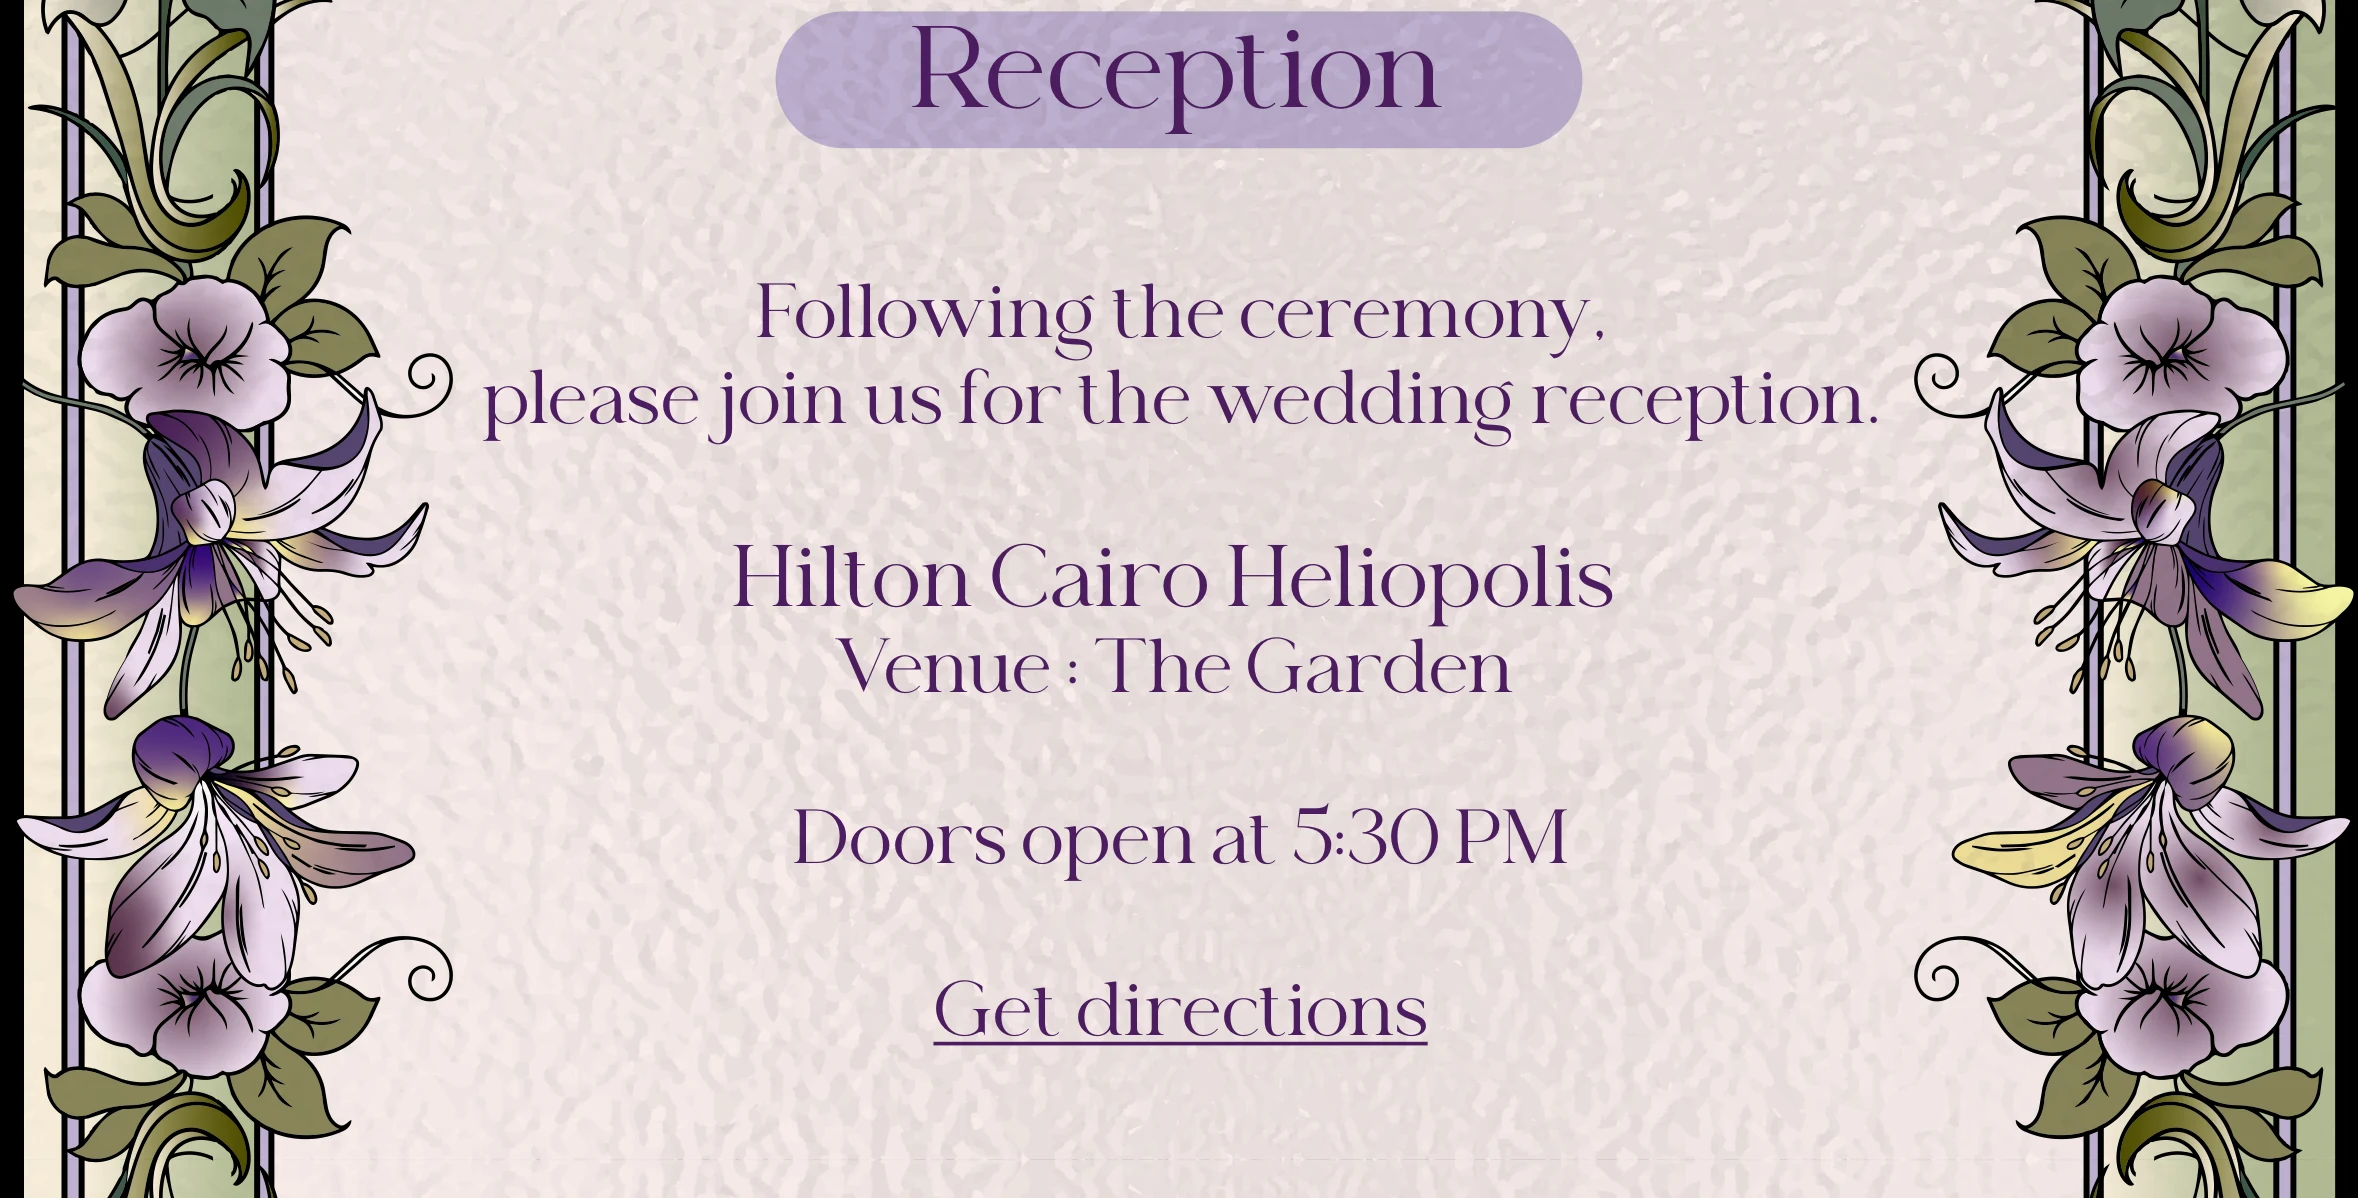
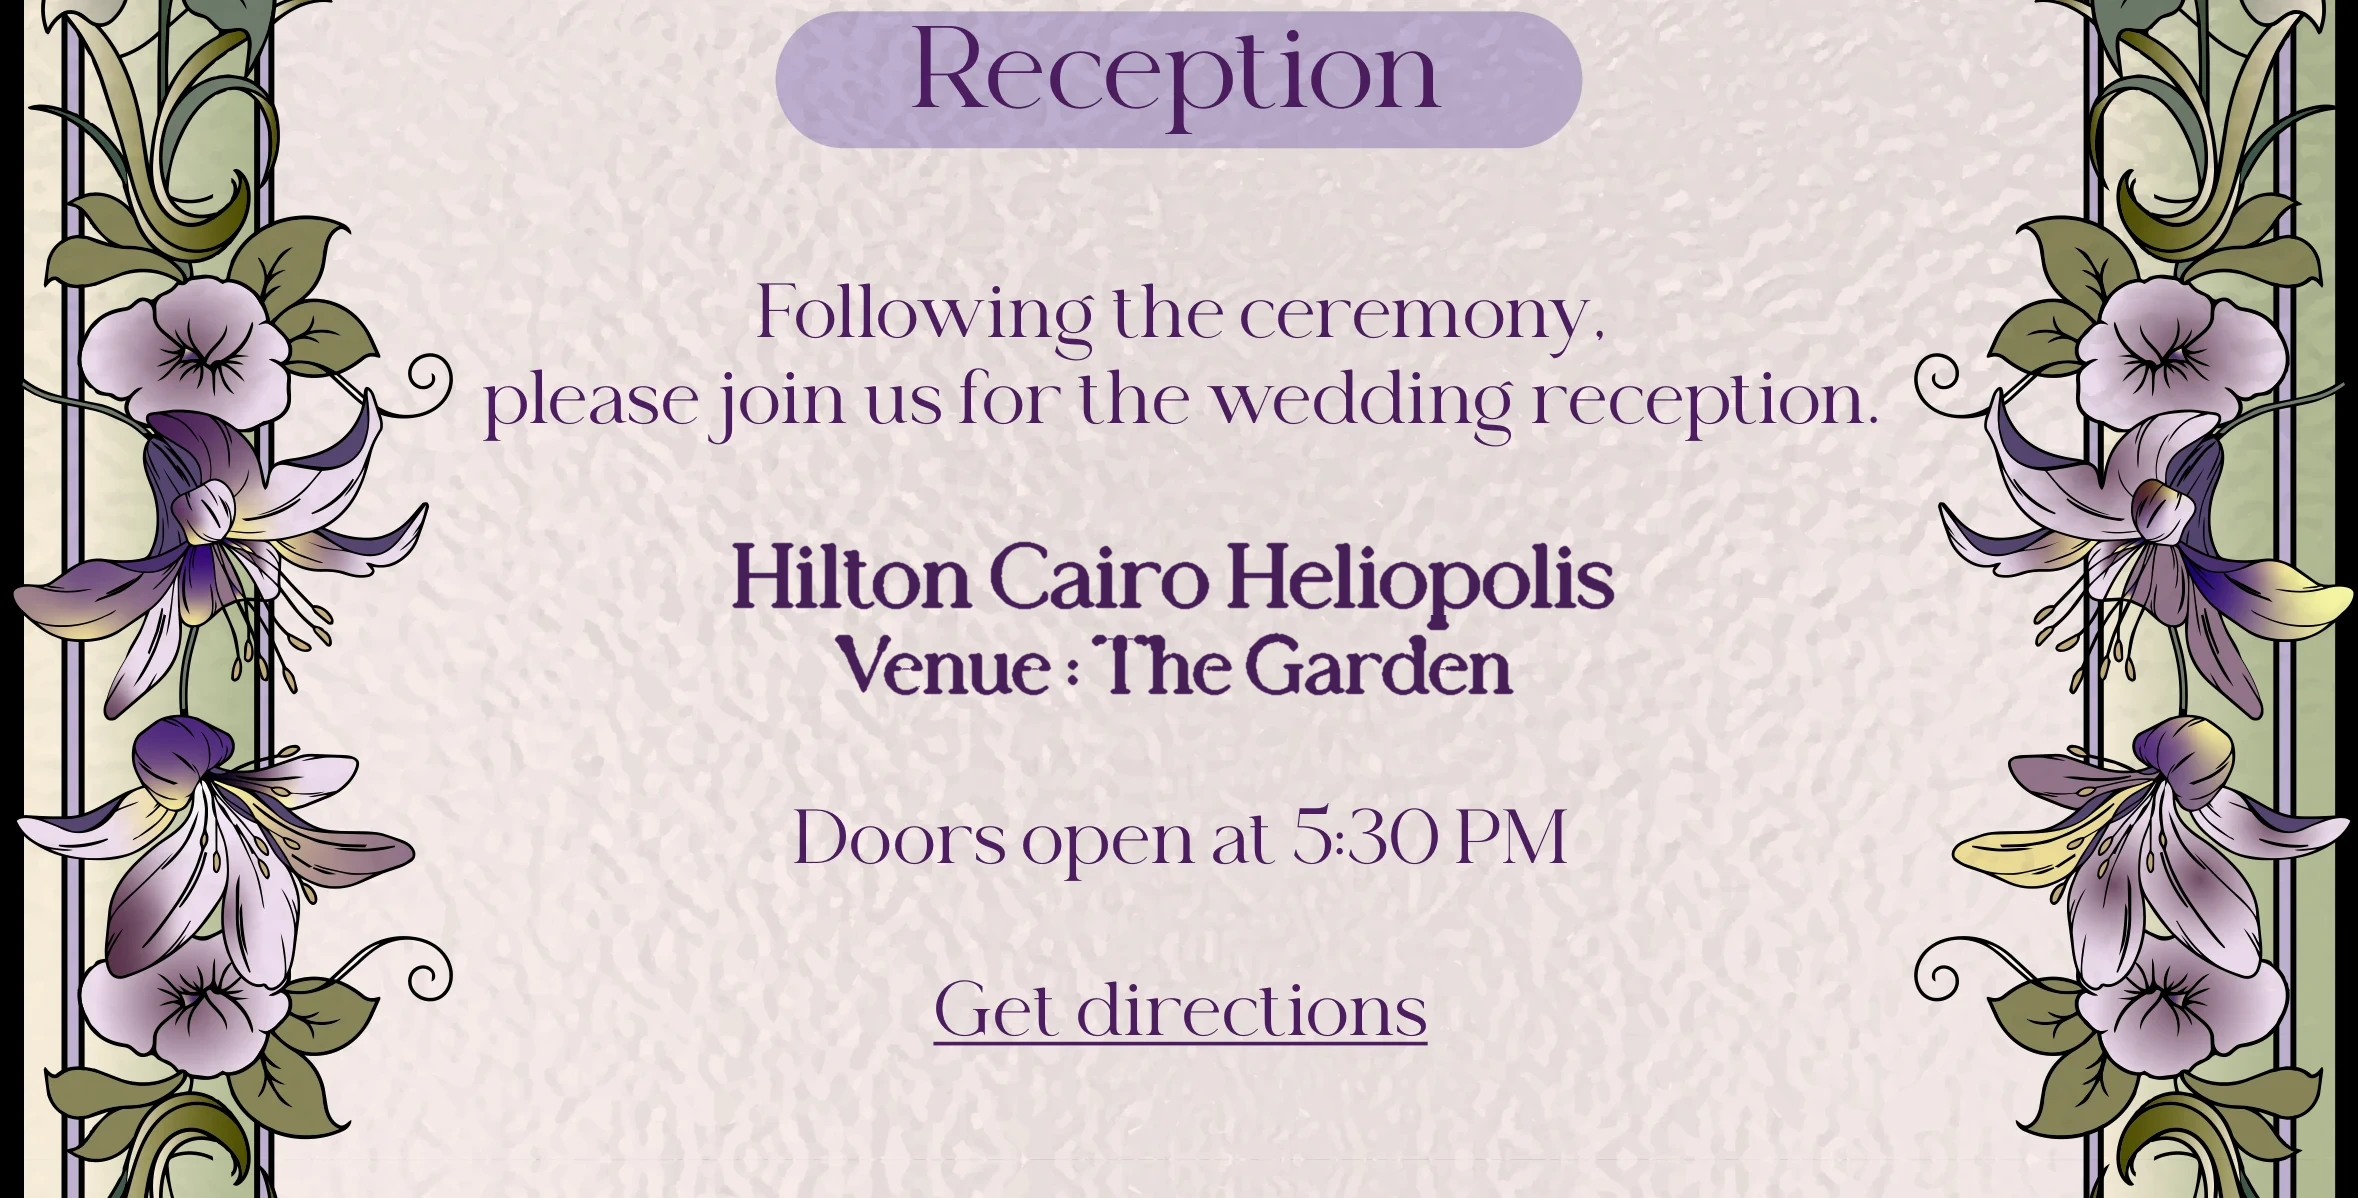
Recolor countdown numbers, bold ceremony/reception names, enlarge Bible verse

Changed region(s): [[0.3096, 0.4324, 0.6811, 0.5868]]

diff --git a/index.html b/index.html
@@ -152,7 +152,7 @@
     position: absolute; inset: 0; display: flex; align-items: center; justify-content: center;
     font-family: 'Orange Avenue', Georgia, serif;
     font-variant-numeric: tabular-nums;
-    font-size: 6.4cqw; color: var(--tile-cream);
+    font-size: 6.4cqw; color: var(--lavender);
     transition: opacity 0.18s ease;
   }
   .cd-tile.flip span { animation: cdflip 0.5s ease; }
@@ -336,17 +336,21 @@
   }
   @keyframes sealMonoIn { to { opacity: 1; transform: none; } }
 
-  .seal-names {
-    margin: 4px 0 6px;
-    font-family: 'Orange Avenue', Georgia, serif;
-    font-weight: 400;
-    font-size: clamp(28px, 8vw, 40px);
-    color: var(--ink);
-    line-height: 1.15;
+  .seal-names-img {
+    display: flex;
+    align-items: center;
+    justify-content: center;
+    gap: 2.2vw;
+    margin: 6px 0 10px;
     opacity: 0;
-    animation: sealFadeUp 0.8s 1.1s var(--e, ease) forwards;
+    transform: translateY(10px);
+    animation: sealFadeUpImg 0.8s 1.1s var(--e, ease) forwards;
   }
-  .seal-names .amp { color: var(--accent); font-style: italic; padding: 0 6px; }
+  .seal-names-img img { display: block; width: auto; }
+  .seal-names-img .nm-nancy, .seal-names-img .nm-marc { height: min(11vw, 46px); }
+  .seal-names-img .nm-amp { height: min(9vw, 38px); }
+  @keyframes sealFadeUpImg { from { opacity: 0; transform: translateY(10px); } to { opacity: 1; transform: none; } }
+
   .seal-tagline {
     margin: 0 0 26px;
     font-size: 17px;
@@ -382,12 +386,12 @@
   body.entrance-lock { overflow: hidden; height: 100%; }
 
   @media (prefers-reduced-motion: reduce) {
-    .seal, .seal-doves-img, .seal-monogram-img, .seal-names, .seal-tagline, .seal-hint {
+    .seal, .seal-doves-img, .seal-monogram-img, .seal-names-img, .seal-tagline, .seal-hint {
       animation: none !important;
       transition: none !important;
     }
-    .seal-doves-img, .seal-monogram-img { opacity: 1; transform: none; }
-    .seal-names, .seal-tagline, .seal-hint { opacity: 1; transform: none; }
+    .seal-doves-img, .seal-monogram-img, .seal-names-img { opacity: 1; transform: none; }
+    .seal-tagline, .seal-hint { opacity: 1; transform: none; }
   }
 </style>
 </head>
@@ -399,7 +403,11 @@
       <img class="seal-doves-img" src="images/dove_pair.png" alt="Two doves" width="1291" height="593">
       <img class="seal-monogram-img" src="images/monogram.png" alt="Nancy and Marc's monogram" width="1223" height="865">
     </div>
-    <h1 class="seal-names">Nancy <span class="amp">&amp;</span> Marc</h1>
+    <div class="seal-names-img" role="heading" aria-level="1" aria-label="Nancy &amp; Marc">
+      <img class="nm-nancy" src="images/name_nancy.png" alt="" aria-hidden="true" width="1004" height="409">
+      <img class="nm-amp" src="images/name_amp.png" alt="" aria-hidden="true" width="321" height="361">
+      <img class="nm-marc" src="images/name_marc.png" alt="" aria-hidden="true" width="944" height="327">
+    </div>
     <p class="seal-tagline">are getting married</p>
     <button type="button" class="seal-hint" id="entranceOpenBtn">Tap to open the invitation</button>
   </div>
@@ -470,12 +478,12 @@
 <div class="invite-page">
   <div class="invite-wrap" id="inviteWrap">
     <img class="bg" src="images/section_00.webp" alt="Stained-glass arch with doves and lilies framing the initial M, for the wedding of Nancy and Marc" width="2358" height="2300">
-    <img class="bg" src="images/section_01.webp" alt="" role="presentation" width="2358" height="1100">
+    <img class="bg" src="images/section_01.webp?v=2" alt="" role="presentation" width="2358" height="1100">
     <img class="bg" src="images/section_02.webp" alt="Nancy Nashaat and Marc Adel, together with their families, joyfully invite you to celebrate their wedding" width="2358" height="2500">
     <img class="bg" src="images/section_03.webp" alt="Saturday 24 October 2026 — a day we'd be honored to share with you" width="2358" height="2700">
     <img class="bg" src="images/section_04.webp?v=2" alt="Countdown to the wedding" width="2358" height="1670">
-    <img class="bg" src="images/section_05.webp" alt="Ceremony at St. Mark Coptic Orthodox Church, please arrive by 3:30 PM" width="2358" height="2134">
-    <img class="bg" src="images/section_06.webp" alt="Reception at Hilton Cairo Heliopolis, The Garden, doors open at 5:30 PM" width="2358" height="1198">
+    <img class="bg" src="images/section_05.webp?v=2" alt="Ceremony at St. Mark Coptic Orthodox Church, please arrive by 3:30 PM" width="2358" height="2134">
+    <img class="bg" src="images/section_06.webp?v=2" alt="Reception at Hilton Cairo Heliopolis, The Garden, doors open at 5:30 PM" width="2358" height="1198">
     <img class="bg" src="images/section_07.webp" alt="RSVP form" width="2358" height="2398">
     <img class="bg" src="images/section_08.webp" alt="A few friendly notes" width="2358" height="1406">
     <img class="bg" src="images/section_09.webp" alt="A little note about little ones, church parking, and greetings and photos" width="2358" height="1994">
